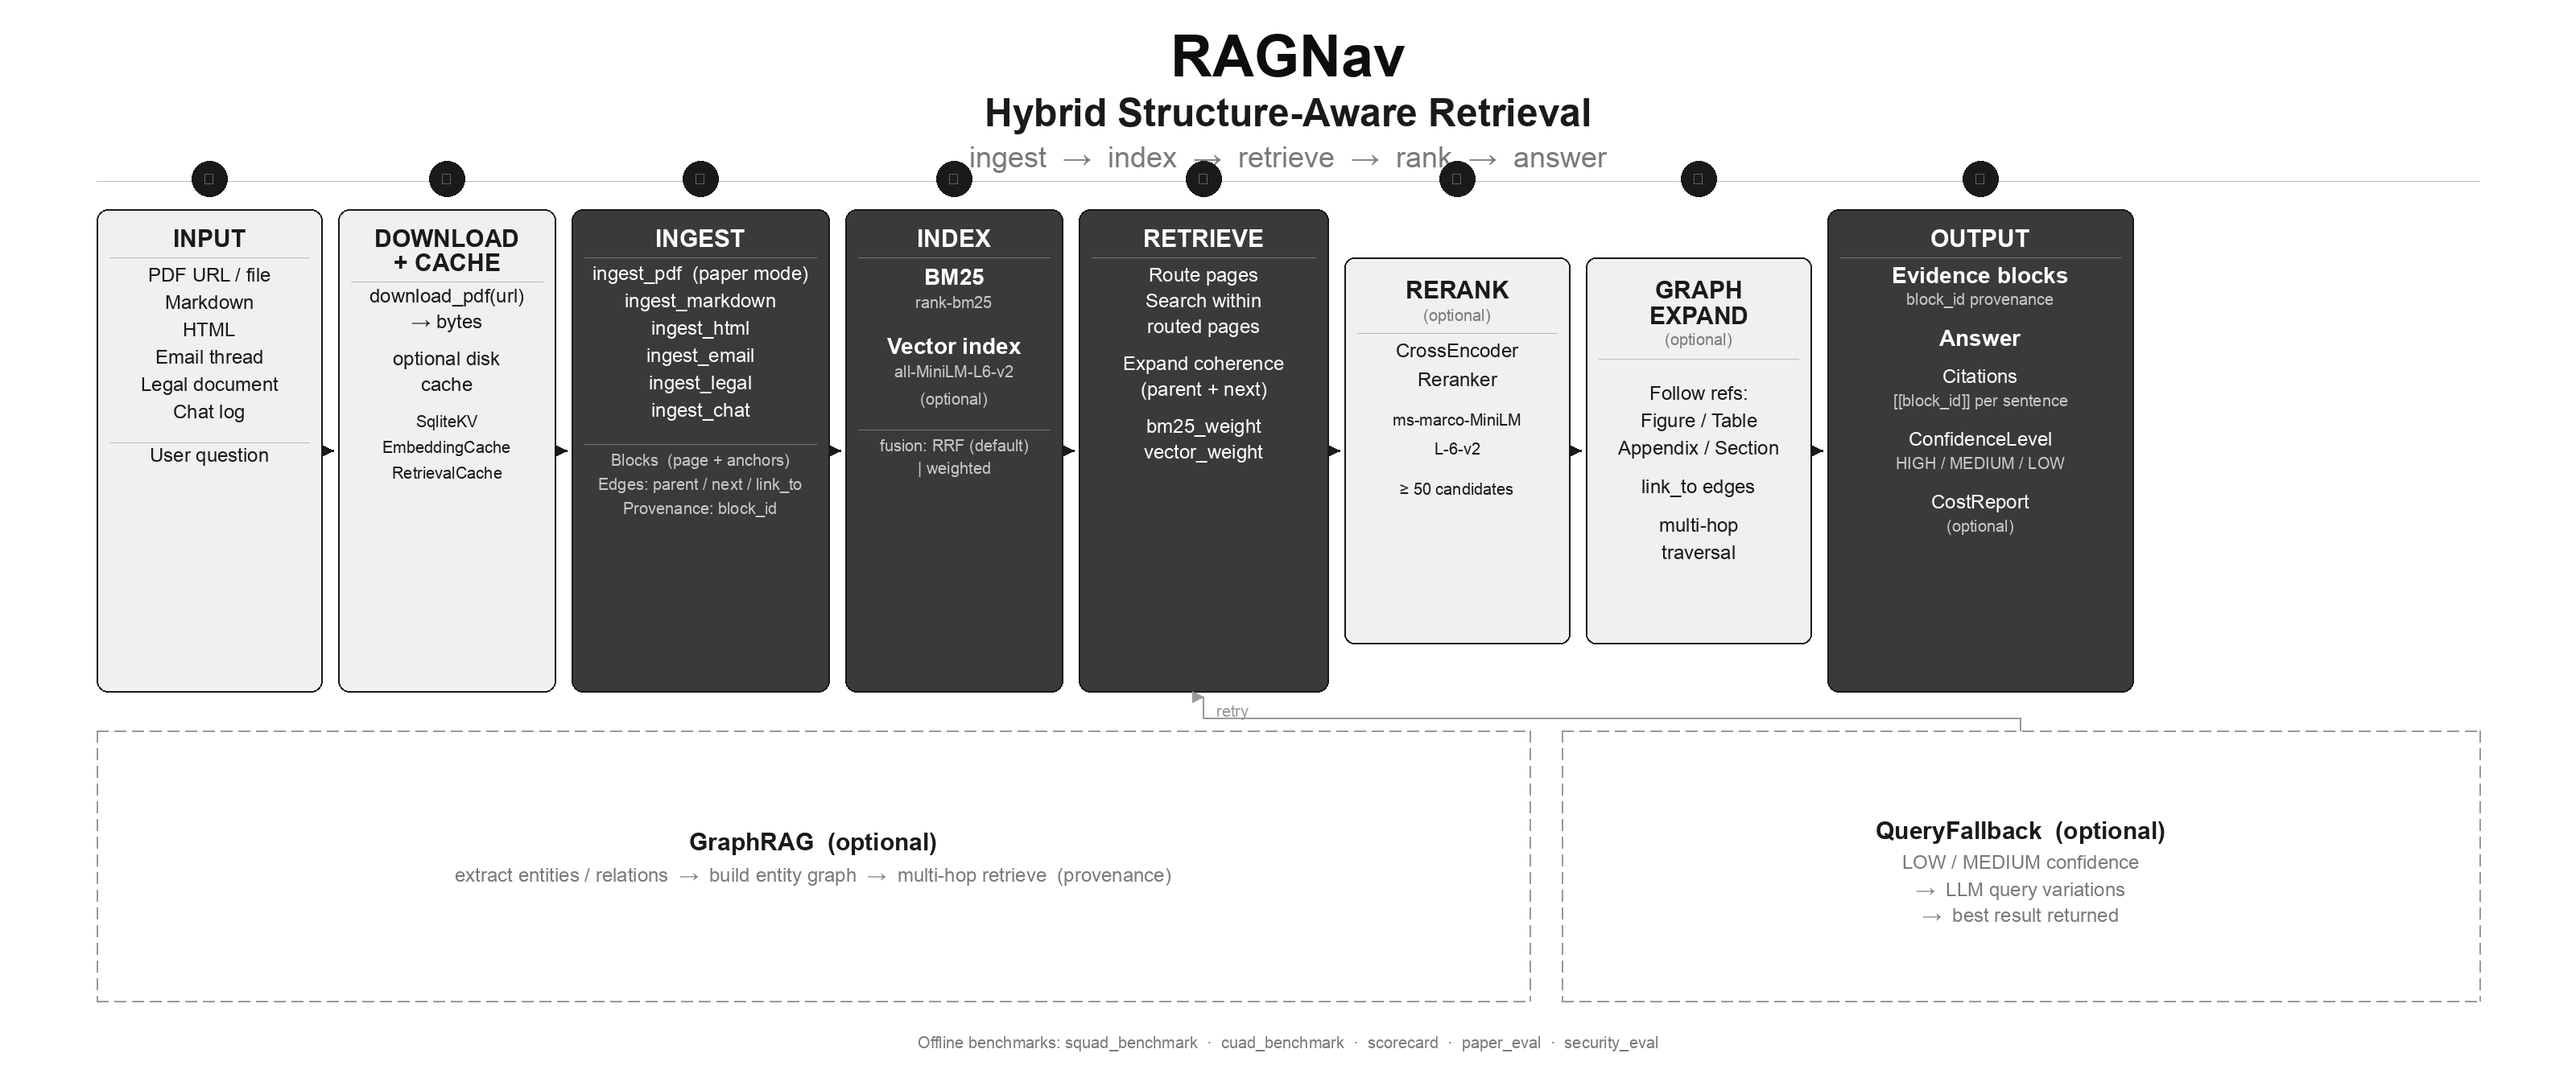
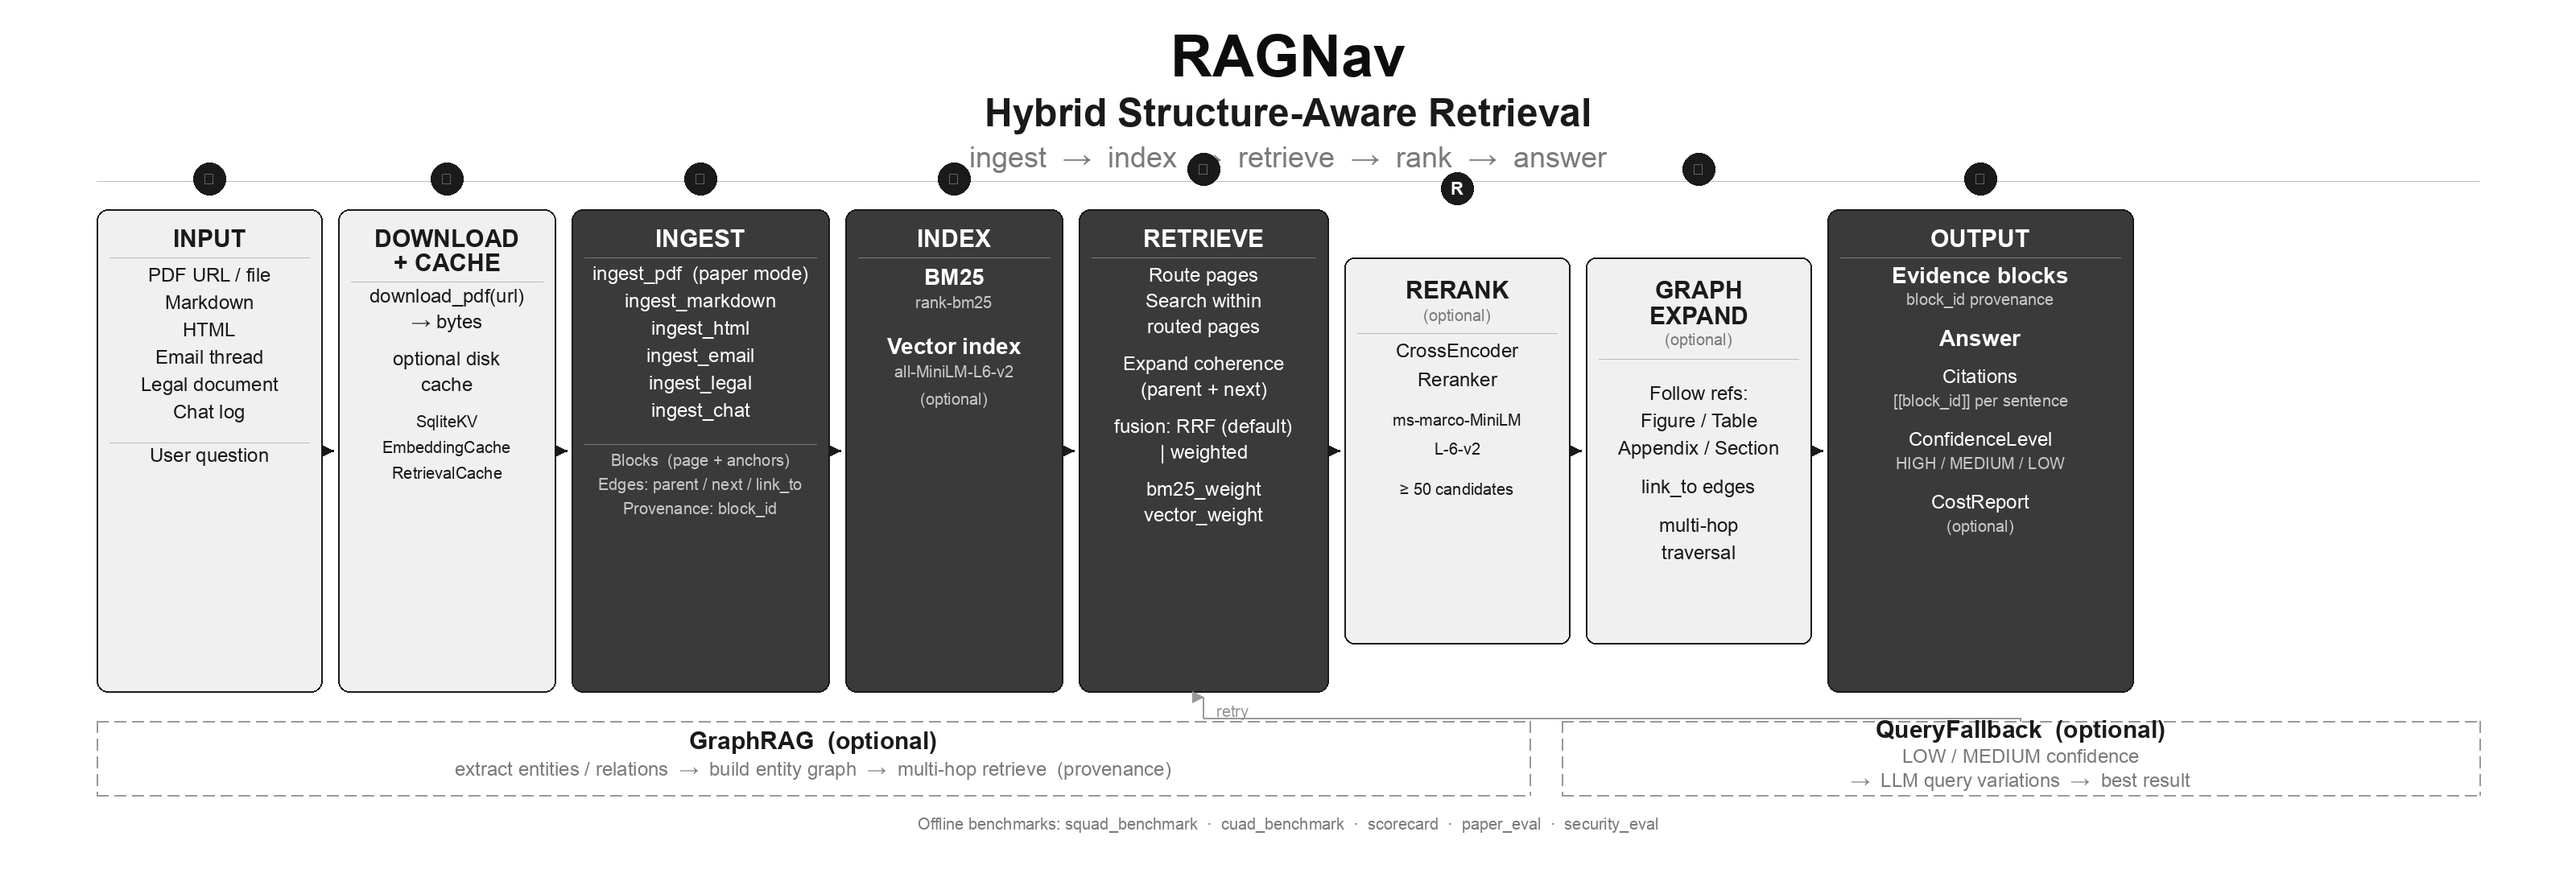
docs: README lead with PyPI hybrid quickstart; drop PageIndex credit row
- Default llm=None: FakeLLMClient when ST vectors (index build + retriever)
- Hero: benchmark table, no FakeLLM in snippet; paper mode called out below
- Install: PyPI first; editable under Development; CLI uses pip install ragnav[...]
- Acknowledgements: IR prior art; remove PageIndex as insight source
- vs PageIndex: remove FinanceBench TBD; note FinanceBench out of scope
- Diagram: tighter footer, R marker for rerank, fusion under Retrieve
- Colab quickstart + CONTRIBUTING diagram section

diff --git a/scripts/gen_architecture.py b/scripts/gen_architecture.py
@@ -19,8 +19,8 @@ from PIL import Image, ImageDraw, ImageFont
 REPO_ROOT = Path(__file__).resolve().parents[1]
 OUT_PATH = REPO_ROOT / "assets" / "ragnav-architecture.png"
 
-# ── Canvas ──────────────────────────────────────────────────────────────────
-W, H = 3200, 1340
+# ── Canvas (height fits content; avoids empty space below dashed boxes) ─────
+W, H = 3200, 1080
 
 # ── Palette (pure monochrome) ────────────────────────────────────────────────
 BLACK = "#0D0D0D"
@@ -78,6 +78,7 @@ F_STEP = font(28, bold=True)
 F_HEAD = font(30, bold=True)
 F_BODY = font(24)
 F_SMALL = font(20)
+F_STEP_MARK = font(22, bold=True)
 
 
 def text_center(draw, text, cx, cy, fnt, color=BLACK, anchor="mm"):
@@ -157,17 +158,24 @@ def main() -> None:
         x1, w = cols[i]
         return x1 + w // 2
 
-    step_labels = ["①", "②", "③", "④", "⑤", "↺", "⑥", "⑦"]
+    # "R" = optional rerank between ⑤ and ⑥ (avoids reading ↺ as a second "five")
+    step_labels = ["①", "②", "③", "④", "⑤", "R", "⑥", "⑦"]
     step_shown = [True, True, True, True, True, True, True, True]
 
-    NUM_R = 22
+    NUM_R = 20
+    step_circle_y = {
+        4: TOP - 50,
+        5: TOP - 26,
+        6: TOP - 50,
+    }
     for i, (label, show) in enumerate(zip(step_labels, step_shown)):
         if not show:
             continue
         cx = col_cx(i)
-        cy = TOP - 38
+        cy = step_circle_y.get(i, TOP - 38)
         circle(d, cx, cy, NUM_R, fill=DARK)
-        text_center(d, label, cx, cy, F_SMALL, WHITE)
+        fmark = F_STEP_MARK if label == "R" else F_SMALL
+        text_center(d, label, cx, cy, fmark, WHITE)
 
     # ── Box 0: Input ────────────────────────────────────────────────────────
     x1, y1, x2, y2 = col_box(0)
@@ -280,12 +288,6 @@ def main() -> None:
         else:
             ty += 20
 
-    divider(d, x1 + 16, x2 - 16, ty + 4, GREY50)
-    ty += 24
-    text_center(d, "fusion: RRF (default)", cx, ty, F_SMALL, "#C8C8C8")
-    ty += 28
-    text_center(d, "| weighted", cx, ty, F_SMALL, "#C8C8C8")
-
     # ── Box 4: Retrieve ───────────────────────────────────────────────────
     x1, y1, x2, y2 = col_box(4)
     rect(d, x1, y1, x2, y2, MID, BORDER)
@@ -300,6 +302,9 @@ def main() -> None:
         "",
         "Expand coherence",
         "(parent + next)",
+        "",
+        "fusion: RRF (default)",
+        "| weighted",
         "",
         "bm25_weight",
         "vector_weight",
@@ -399,30 +404,30 @@ def main() -> None:
         mid_y = TOP + MH // 2
         arrow(d, x1_end + 6, mid_y, x2_start - 6, mid_y, DARK, 3)
 
-    # ── Bottom section ──────────────────────────────────────────────────────
-    BOTY = BOT + 48
-    BOT2 = H - 56
+    # ── Bottom section (tight dashed frames) ─────────────────────────────
+    BOTY = BOT + 36
+    DASH_BOT = BOTY + 92
+    foot_y = DASH_BOT + 36
 
     gx1, gx2 = 120, 1900
-    dashed_rect(d, gx1, BOTY, gx2, BOT2 - 40, DASH, 2)
-    gcy = (BOTY + BOT2 - 40) // 2
-    text_center(d, "GraphRAG  (optional)", (gx1 + gx2) // 2, gcy - 30, F_HEAD, DARK)
+    dashed_rect(d, gx1, BOTY, gx2, DASH_BOT, DASH, 2)
+    gcy = (BOTY + DASH_BOT) // 2
+    text_center(d, "GraphRAG  (optional)", (gx1 + gx2) // 2, gcy - 22, F_HEAD, DARK)
     text_center(
         d,
         "extract entities / relations  →  build entity graph  →  multi-hop retrieve  (provenance)",
         (gx1 + gx2) // 2,
-        gcy + 12,
+        gcy + 14,
         F_BODY,
         GREY50,
     )
 
     qx1, qx2 = 1940, 3080
-    dashed_rect(d, qx1, BOTY, qx2, BOT2 - 40, DASH, 2)
-    qcy = (BOTY + BOT2 - 40) // 2
-    text_center(d, "QueryFallback  (optional)", (qx1 + qx2) // 2, qcy - 44, F_HEAD, DARK)
-    text_center(d, "LOW / MEDIUM confidence", (qx1 + qx2) // 2, qcy - 4, F_BODY, GREY50)
-    text_center(d, "→  LLM query variations", (qx1 + qx2) // 2, qcy + 30, F_BODY, GREY50)
-    text_center(d, "→  best result returned", (qx1 + qx2) // 2, qcy + 62, F_BODY, GREY50)
+    dashed_rect(d, qx1, BOTY, qx2, DASH_BOT, DASH, 2)
+    qcy = (BOTY + DASH_BOT) // 2
+    text_center(d, "QueryFallback  (optional)", (qx1 + qx2) // 2, qcy - 36, F_HEAD, DARK)
+    text_center(d, "LOW / MEDIUM confidence", (qx1 + qx2) // 2, qcy - 2, F_BODY, GREY50)
+    text_center(d, "→  LLM query variations  →  best result", (qx1 + qx2) // 2, qcy + 28, F_BODY, GREY50)
 
     ret_x = cols[4][0] + cols[4][1] // 2
     qcx = (qx1 + qx2) // 2
@@ -431,7 +436,6 @@ def main() -> None:
     arrow(d, ret_x, BOT + 32, ret_x, BOT + 6, DASH, 2)
     text_center(d, "retry", ret_x + 36, BOT + 24, F_SMALL, DASH)
 
-    foot_y = H - 44
     text_center(
         d,
         "Offline benchmarks: squad_benchmark  ·  cuad_benchmark  ·  scorecard  ·  paper_eval  ·  security_eval",

diff --git a/ragnav/retrieval/retriever.py b/ragnav/retrieval/retriever.py
@@ -36,15 +36,24 @@ class RAGNavRetriever:
 
     def __post_init__(self):
         if self.llm is None:
-            try:
-                from ..llm.mistral import MistralClient  # optional dependency
+            from ..llm.fake import FakeLLMClient
 
-                self.llm = MistralClient()
-            except Exception as e:
-                raise RAGNavLLMError(
-                    "No LLM client provided. Pass `llm=...` (e.g. FakeLLMClient for offline), "
-                    "or install Mistral support with: pip install -e \".[mistral]\""
-                ) from e
+            v = self.index.vectors
+            offline_ok = (
+                v is not None and v.uses_sentence_transformers
+            ) or not self.index.has_vectors
+            if offline_ok:
+                self.llm = FakeLLMClient()
+            else:
+                try:
+                    from ..llm.mistral import MistralClient  # optional dependency
+
+                    self.llm = MistralClient()
+                except Exception as e:
+                    raise RAGNavLLMError(
+                        "No LLM client provided. Pass `llm=...` (e.g. FakeLLMClient for offline), "
+                        "or install Mistral support with: pip install ragnav[mistral]"
+                    ) from e
         if self.cost_tracker is not None and self.llm is not None:
             if getattr(self.llm, "cost_tracker", None) is None:
                 self.llm.cost_tracker = self.cost_tracker

diff --git a/ragnav/retrieval/index.py b/ragnav/retrieval/index.py
@@ -49,15 +49,21 @@ class RAGNavIndex:
         use_sentence_transformers: bool = True,
     ) -> "RAGNavIndex":
         if llm is None:
-            try:
-                from ..llm.mistral import MistralClient  # optional dependency
+            if use_sentence_transformers and build_vectors:
+                from ..llm.fake import FakeLLMClient
 
-                llm = MistralClient()
-            except Exception as e:
-                raise RAGNavLLMError(
-                    "No LLM client provided. Pass `llm=...` (e.g. FakeLLMClient for offline), "
-                    "or install Mistral support with: pip install -e \".[mistral]\""
-                ) from e
+                llm = FakeLLMClient()
+            else:
+                try:
+                    from ..llm.mistral import MistralClient  # optional dependency
+
+                    llm = MistralClient()
+                except Exception as e:
+                    raise RAGNavLLMError(
+                        "No LLM client provided. Pass `llm=...` (e.g. FakeLLMClient), "
+                        "or use use_sentence_transformers=True with build_vectors=True for local embeddings, "
+                        "or install Mistral support with: pip install ragnav[mistral]"
+                    ) from e
 
         docs_map = {d.doc_id: d for d in documents}
         blocks_by_id = {b.block_id: b for b in blocks}

diff --git a/README.md b/README.md
@@ -7,12 +7,14 @@
 [![PyPI Downloads](https://static.pepy.tech/personalized-badge/ragnav?period=total&units=INTERNATIONAL_SYSTEM&left_color=BLACK&right_color=GREEN&left_text=downloads)](https://pepy.tech/projects/ragnav)
 [![Open in Colab](https://colab.research.google.com/assets/colab-badge.svg)](https://colab.research.google.com/github/irfanalidv/RAGNav/blob/main/cookbook/ragnav_quickstart.ipynb)
 
-**Production-grade hybrid retrieval — no API key required.**
+**Production-grade hybrid retrieval** — BM25 plus dense embeddings plus optional structure-aware expansion. With **sentence-transformers** (default), you can index and query **without any API key** or separate LLM client for the common path below.
 
-RAGNav combines BM25, sentence-transformer embeddings, and document-structure graph expansion in one library that runs **entirely offline** with open models.
+| Result | Detail |
+|--------|--------|
+| **SQuAD R@3** | **0.956** (500 questions, hybrid RRF, zero paid API calls) |
+| **CUAD span S@3** | **0.071** (clause-friendly metric; see benchmarks) |
 
-**SQuAD R@3: 0.956** on 500 questions, zero API calls.  
-PageIndex (the closest alternative) requires GPT-4o for its tree workflow and does not publish SQuAD numbers.
+Frontier-LLM “build an index per document” stacks optimize a different cost and reproducibility tradeoff; RAGNav targets **pip-install hybrid search** with **offline, reproducible** benchmarks.
 
 ```bash
 pip install ragnav[embeddings]
@@ -21,33 +23,36 @@ pip install ragnav[embeddings]
 ```python
 from ragnav import RAGNavIndex, RAGNavRetriever
 from ragnav.ingest.markdown import ingest_markdown_string
-from ragnav.llm.fake import FakeLLMClient
 
-md = "# Demo\n\nParis is the capital of France."
-doc, blocks = ingest_markdown_string(md, name="demo.md")
-llm = FakeLLMClient()
+doc, blocks = ingest_markdown_string(
+    "# Demo\n\nParis is the capital of France.",
+    name="demo.md",
+)
 index = RAGNavIndex.build(
     documents=[doc],
     blocks=blocks,
-    llm=llm,
     use_sentence_transformers=True,
     vector_model="all-MiniLM-L6-v2",
     embed_batch_size=32,
 )
-retriever = RAGNavRetriever(index=index, llm=llm)
+retriever = RAGNavRetriever(index=index)
 result = retriever.retrieve(
     "What is the capital of France?",
     top_k=5,
     expand_structure=False,
     expand_graph=False,
 )
-print(result.blocks[0].text)  # Paris is the capital of France.
-print(result.confidence)  # ConfidenceLevel.HIGH (heuristic; see models.ConfidenceLevel)
+print(result.blocks[0].text)
+print(result.confidence)
 ```
 
 ![RAGNav architecture](https://raw.githubusercontent.com/irfanalidv/RAGNav/main/assets/ragnav-architecture.png)
 
-For **long PDFs and papers**, RAGNav is also **navigation-first**: route pages/sections, then retrieve evidence with provenance — not only “embed query → retrieve chunks”.
+Regenerate this figure: `python3 scripts/gen_architecture.py` (needs Pillow, e.g. `pip install ragnav[dev]`).
+
+### Long PDFs and paper mode
+
+For **papers and long PDFs**, use **navigation-first** routing (pages → evidence → optional `link_to` refs). That workflow is **not** required for the markdown snippet above; see [Quickstart (Python): papers](#quickstart-python-papers-recommended) and the CLI section below.
 
 ## The problem (why long-document QA fails)
 
@@ -91,8 +96,7 @@ Edge {
 }
 ```
 
-This is the practical equivalent of PageIndex’s “in-context index”, but optimized for **papers**:
-pages + headings + cross-references + provenance.
+This graph is the in-process “index” the retriever navigates: pages, headings, cross-references, and provenance.
 
 ## Vector RAG vs RAGNav (paper-mode)
 
@@ -114,35 +118,33 @@ pages + headings + cross-references + provenance.
 
 ## Acknowledgements & prior art
 
-RAGNav is an independent project, but it stands on strong prior work:
+RAGNav is an independent project. It builds on long-standing **information retrieval** practice (lexical BM25, hybrid fusion with dense retrieval) and open embedding models — *document structure as a first-class signal* has roots in IR, digital libraries, and structured PDF tooling, not a single product.
 
-- **PageIndex**: RAGNav builds on the core insight popularized by **PageIndex** — *document structure is a first-class retrieval signal* ([repo](https://github.com/VectifyAI/PageIndex), [article](https://pageindex.ai/blog/pageindex-intro)).
 - **PyMuPDF**: PDF text extraction is powered by `pymupdf` (optional dependency).
-- **BM25 / classic IR**: Lexical retrieval uses BM25-style scoring (a long-established baseline).
-- **Mistral**: The reference LLM/embedding client targets Mistral (optional dependency).
+- **BM25 / classic IR**: Lexical retrieval uses BM25-style scoring.
+- **Mistral**: Optional LLM/embedding client for chat, routing, and API-backed embed fallback.
 
-RAGNav is **not affiliated with** these projects/organizations. If you notice missing or incorrect attribution, please open an issue.
+RAGNav is **not affiliated** with the vendors above. If you notice missing or incorrect attribution, please open an issue.
 
 ---
 
 ## Install
 
-Create a virtualenv, then install RAGNav:
+From [PyPI](https://pypi.org/project/ragnav/) (recommended):
 
 ```bash
-pip install -e .
+pip install ragnav[embeddings]
 ```
 
-To enable **PDF ingestion**:
+Optional extras: `ragnav[pdf]`, `ragnav[messy]` (HTML), `ragnav[reranking]`, `ragnav[mistral]`, `ragnav[all]` (see `pyproject.toml`; `mistral` is omitted from `all`).
+
+### Development (clone)
 
 ```bash
-pip install -e ".[pdf]"
-```
-
-To enable **Mistral-backed** chat + embeddings:
-
-```bash
-pip install -e ".[mistral]"
+git clone https://github.com/irfanalidv/RAGNav.git
+cd RAGNav
+pip install -e ".[dev,pdf,messy]"
+# optional: pip install -e ".[mistral]"
 ```
 
 ## Setup (Mistral)
@@ -160,7 +162,7 @@ export MISTRAL_API_KEY="your_key_here"
 Install:
 
 ```bash
-pip install -e ".[mistral,pdf]"
+pip install "ragnav[mistral,pdf]"
 export MISTRAL_API_KEY="..."
 ```
 
@@ -272,7 +274,7 @@ for b in out["blocks"][:3]:
 Networked PDF demo:
 
 ```bash
-pip install -e ".[mistral,pdf]"
+pip install "ragnav[mistral,pdf]"
 export MISTRAL_API_KEY="..."
 python3 examples/graphs/ragnav_entity_graphrag_pdf.py
 ```
@@ -296,10 +298,7 @@ Features PageIndex does not have:
 
 ## Benchmarks
 
-All numbers are reproducible: run `benchmarks/squad_benchmark.py` or
-`benchmarks/cuad_benchmark.py` after `pip install ragnav[embeddings] datasets`.
-No API key required for SQuAD or CUAD. Hybrid retrieval uses **reciprocal rank fusion (RRF)**
-by default; optional **cross-encoder reranking** is exposed on `RAGNavRetriever(reranker=...)`.
+Reproduce with `benchmarks/squad_benchmark.py` and `benchmarks/cuad_benchmark.py` after `pip install ragnav[embeddings] datasets`. No API key for SQuAD or CUAD. Default hybrid path uses **RRF**; optional **cross-encoder reranking** is `RAGNavRetriever(reranker=...)`.
 
 ### Retrieval accuracy
 
@@ -329,19 +328,18 @@ Gold answer span may sit across legal-ingest block boundaries; **span S@k** is t
 
 *CUAD: 300 questions sampled (297 with gold locatable in the indexed blocks after legal ingest), `theatticusproject/cuad-qa` test JSON (official zip), CC BY 4.0. Block-level R@k requires a gold block_id in the top-k list; span S@k only requires the gold answer text to appear in the merged text of those blocks.*
 
-### vs. PageIndex
+### vs. PageIndex (illustrative)
 
 | | PageIndex | RAGNav |
 |--|-----------|--------|
-| Requires GPT-4o / paid LLM | Yes | No — runs on any LLM or embedding-only |
+| Requires GPT-4o / paid LLM for core tree workflow | Yes | No — hybrid retrieval with local embeddings by default |
 | Fully offline (no API key) | No | Yes |
 | SQuAD R@3 | Not published | **0.956** (hybrid RRF) |
-| CUAD clause retrieval (span S@3) | Not published | **0.071** (hybrid RRF + legal ingest; see benchmark file for block-level R@3) |
-| FinanceBench accuracy | 98.7% (GPT-4o) | TBD (Mistral) |
+| CUAD clause retrieval (span S@3) | Not published | **0.071** (hybrid RRF + legal ingest; block-level R@3 in results file) |
 | Handles markdown / chat / email | No | Yes |
 | Structure-aware graph expansion | No | Yes |
 
-*FinanceBench comparison in progress (later session).*
+**FinanceBench:** Often cited with a **frontier LLM** and a finance-PDF setup. RAGNav does not ship that harness: it would imply **paid API** runs and a different evaluation contract than the offline SQuAD/CUAD suites above. Treat FinanceBench as **out of scope** for this repo until a reproducible, keyless or clearly documented protocol is added.
 
 ### One-command scorecard (offline)
 

diff --git a/CONTRIBUTING.md b/CONTRIBUTING.md
@@ -1,5 +1,14 @@
 # Contributing to RAGNav
 
+## Architecture diagram
+
+Regenerate `assets/ragnav-architecture.png` after editing `scripts/gen_architecture.py`:
+
+```bash
+pip install pillow
+python3 scripts/gen_architecture.py
+```
+
 ## Development setup
 
 Clone the repository and install the package in editable mode with optional extras:
